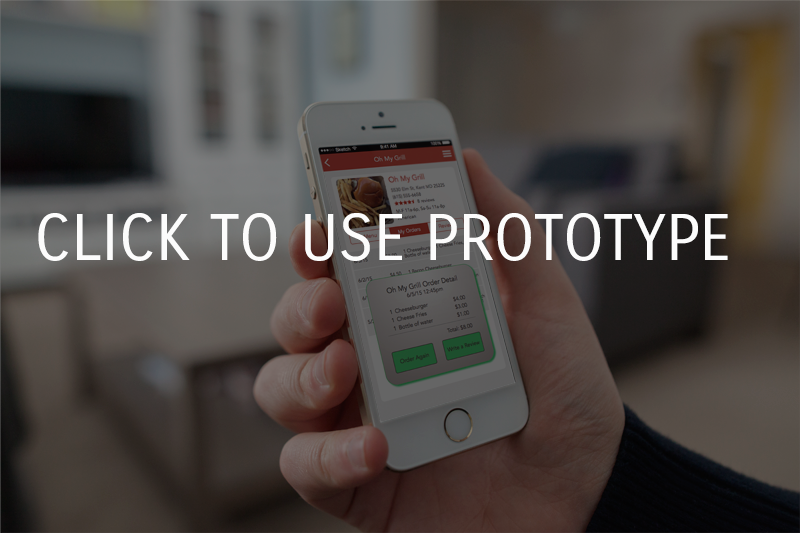
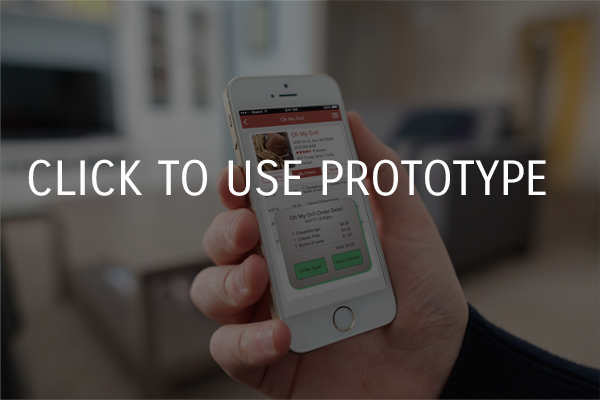
add retina.js and @2x images

diff --git a/scripts/retina.js b/scripts/retina.js
@@ -1,0 +1,182 @@
+/*!
+ * Retina.js v1.3.0
+ *
+ * Copyright 2014 Imulus, LLC
+ * Released under the MIT license
+ *
+ * Retina.js is an open source script that makes it easy to serve
+ * high-resolution images to devices with retina displays.
+ */
+
+(function() {
+    var root = (typeof exports === 'undefined' ? window : exports);
+    var config = {
+        // An option to choose a suffix for 2x images
+        retinaImageSuffix : '@2x',
+
+        // Ensure Content-Type is an image before trying to load @2x image
+        // https://github.com/imulus/retinajs/pull/45)
+        check_mime_type: true,
+
+        // Resize high-resolution images to original image's pixel dimensions
+        // https://github.com/imulus/retinajs/issues/8
+        force_original_dimensions: true
+    };
+
+    function Retina() {}
+
+    root.Retina = Retina;
+
+    Retina.configure = function(options) {
+        if (options === null) {
+            options = {};
+        }
+
+        for (var prop in options) {
+            if (options.hasOwnProperty(prop)) {
+                config[prop] = options[prop];
+            }
+        }
+    };
+
+    Retina.init = function(context) {
+        if (context === null) {
+            context = root;
+        }
+
+        var existing_onload = context.onload || function(){};
+
+        context.onload = function() {
+            var images = document.getElementsByTagName('img'), retinaImages = [], i, image;
+            for (i = 0; i < images.length; i += 1) {
+                image = images[i];
+                if (!!!image.getAttributeNode('data-no-retina')) {
+                    retinaImages.push(new RetinaImage(image));
+                }
+            }
+            existing_onload();
+        };
+    };
+
+    Retina.isRetina = function(){
+        var mediaQuery = '(-webkit-min-device-pixel-ratio: 1.5), (min--moz-device-pixel-ratio: 1.5), (-o-min-device-pixel-ratio: 3/2), (min-resolution: 1.5dppx)';
+
+        if (root.devicePixelRatio > 1) {
+            return true;
+        }
+
+        if (root.matchMedia && root.matchMedia(mediaQuery).matches) {
+            return true;
+        }
+
+        return false;
+    };
+
+
+    var regexMatch = /\.\w+$/;
+    function suffixReplace (match) {
+        return config.retinaImageSuffix + match;
+    }
+
+    function RetinaImagePath(path, at_2x_path) {
+        this.path = path || '';
+        if (typeof at_2x_path !== 'undefined' && at_2x_path !== null) {
+            this.at_2x_path = at_2x_path;
+            this.perform_check = false;
+        } else {
+            if (undefined !== document.createElement) {
+                var locationObject = document.createElement('a');
+                locationObject.href = this.path;
+                locationObject.pathname = locationObject.pathname.replace(regexMatch, suffixReplace);
+                this.at_2x_path = locationObject.href;
+            } else {
+                var parts = this.path.split('?');
+                parts[0] = parts[0].replace(regexMatch, suffixReplace);
+                this.at_2x_path = parts.join('?');
+            }
+            this.perform_check = true;
+        }
+    }
+
+    root.RetinaImagePath = RetinaImagePath;
+
+    RetinaImagePath.confirmed_paths = [];
+
+    RetinaImagePath.prototype.is_external = function() {
+        return !!(this.path.match(/^https?\:/i) && !this.path.match('//' + document.domain) );
+    };
+
+    RetinaImagePath.prototype.check_2x_variant = function(callback) {
+        var http, that = this;
+        if (this.is_external()) {
+            return callback(false);
+        } else if (!this.perform_check && typeof this.at_2x_path !== 'undefined' && this.at_2x_path !== null) {
+            return callback(true);
+        } else if (this.at_2x_path in RetinaImagePath.confirmed_paths) {
+            return callback(true);
+        } else {
+            http = new XMLHttpRequest();
+            http.open('HEAD', this.at_2x_path);
+            http.onreadystatechange = function() {
+                if (http.readyState !== 4) {
+                    return callback(false);
+                }
+
+                if (http.status >= 200 && http.status <= 399) {
+                    if (config.check_mime_type) {
+                        var type = http.getResponseHeader('Content-Type');
+                        if (type === null || !type.match(/^image/i)) {
+                            return callback(false);
+                        }
+                    }
+
+                    RetinaImagePath.confirmed_paths.push(that.at_2x_path);
+                    return callback(true);
+                } else {
+                    return callback(false);
+                }
+            };
+            http.send();
+        }
+    };
+
+
+    function RetinaImage(el) {
+        this.el = el;
+        this.path = new RetinaImagePath(this.el.getAttribute('src'), this.el.getAttribute('data-at2x'));
+        var that = this;
+        this.path.check_2x_variant(function(hasVariant) {
+            if (hasVariant) {
+                that.swap();
+            }
+        });
+    }
+
+    root.RetinaImage = RetinaImage;
+
+    RetinaImage.prototype.swap = function(path) {
+        if (typeof path === 'undefined') {
+            path = this.path.at_2x_path;
+        }
+
+        var that = this;
+        function load() {
+            if (! that.el.complete) {
+                setTimeout(load, 5);
+            } else {
+                if (config.force_original_dimensions) {
+                    that.el.setAttribute('width', that.el.offsetWidth);
+                    that.el.setAttribute('height', that.el.offsetHeight);
+                }
+
+                that.el.setAttribute('src', path);
+            }
+        }
+        load();
+    };
+
+
+    if (Retina.isRetina()) {
+        Retina.init(root);
+    }
+})();

diff --git a/Paycrave.html b/Paycrave.html
@@ -74,13 +74,14 @@
             <img src="images/paycrave/StyleGuide.png"
              alt="provided style tile" 
             id="myImg">
-            <figcaption>provided style tile</figcaption>
+            <figcaption>provided style tile</figcaption> 
+            <div id="myModal" class="modal">  
+                <span class="close" onclick="document.getElementById('myModal').style.display='none'">&times;</span>
+                <div id="caption" class="modal-caption"></div>
+                <img class="modal-content" id="img01">
+            </div>
         </figure>
-        <div id="myModal" class="modal">  
-            <span class="close" onclick="document.getElementById('myModal').style.display='none'">&times;</span>
-            <div id="caption"></div>
-            <img class="modal-content" id="img01">
-        </div>
+
         
         
         

diff --git a/styles/modal.css b/styles/modal.css
@@ -6,7 +6,10 @@
 #myImg:hover {
     opacity: 0.7; /* dim the image on hover */
 }
-
+.modal img {
+    max-width: 100%;
+    max-height: 100%;
+}
 
 /* The Modal (background) */
 .modal {
@@ -28,6 +31,12 @@
     margin: auto;
     display: block;
     max-width: 100%;
+}
+/* 100% Image Width on Smaller Screens */
+@media only screen and (max-width: 700px){
+    .modal-content {
+        width: 100%;
+    }
 }
 
 /* Caption of Modal Image (Image Text) - Same Width as the Image */
@@ -59,11 +68,4 @@
     color: whitesmoke;
     text-decoration: none;
     cursor: pointer;
-}
-
-/* 100% Image Width on Smaller Screens */
-@media only screen and (max-width: 700px){
-    .modal-content {
-        width: 100%;
-    }
 }

diff --git a/PropertyManagement.html b/PropertyManagement.html
@@ -17,6 +17,7 @@
     <link rel="stylesheet" href="https://maxcdn.bootstrapcdn.com/font-awesome/4.5.0/css/font-awesome.min.css">
     <script src="scripts/hamburger.js"></script>
     <script src="scripts/projects.js"></script>
+    <script src="scripts/retina.js"></script>
  </head>
 <body>
 
@@ -489,7 +490,6 @@
   (i[r].q=i[r].q||[]).push(arguments)},i[r].l=1*new Date();a=s.createElement(o),
   m=s.getElementsByTagName(o)[0];a.async=1;a.src=g;m.parentNode.insertBefore(a,m)
   })(window,document,'script','//www.google-analytics.com/analytics.js','ga');
-
   ga('create', 'UA-74068591-1', 'auto');
   ga('send', 'pageview');
 </script>

diff --git a/styles/main.css b/styles/main.css
@@ -86,7 +86,7 @@ main img {
     padding: 10px;
 /*    background-color: whitesmoke;*/
 }
-@media (min-width: 302px) {
+@media (min-width: 302px) { /*for both project page AND modal! */
     main img {
         max-width: 400px;
         max-height: 400px;
@@ -126,6 +126,8 @@ main .inline-text-link:hover {
     width: 100px;
     border-radius: 100px; /* match height/width for circle */
 }
+
+
 #main-home-page p {
     max-width: 500px;
     margin: auto;
